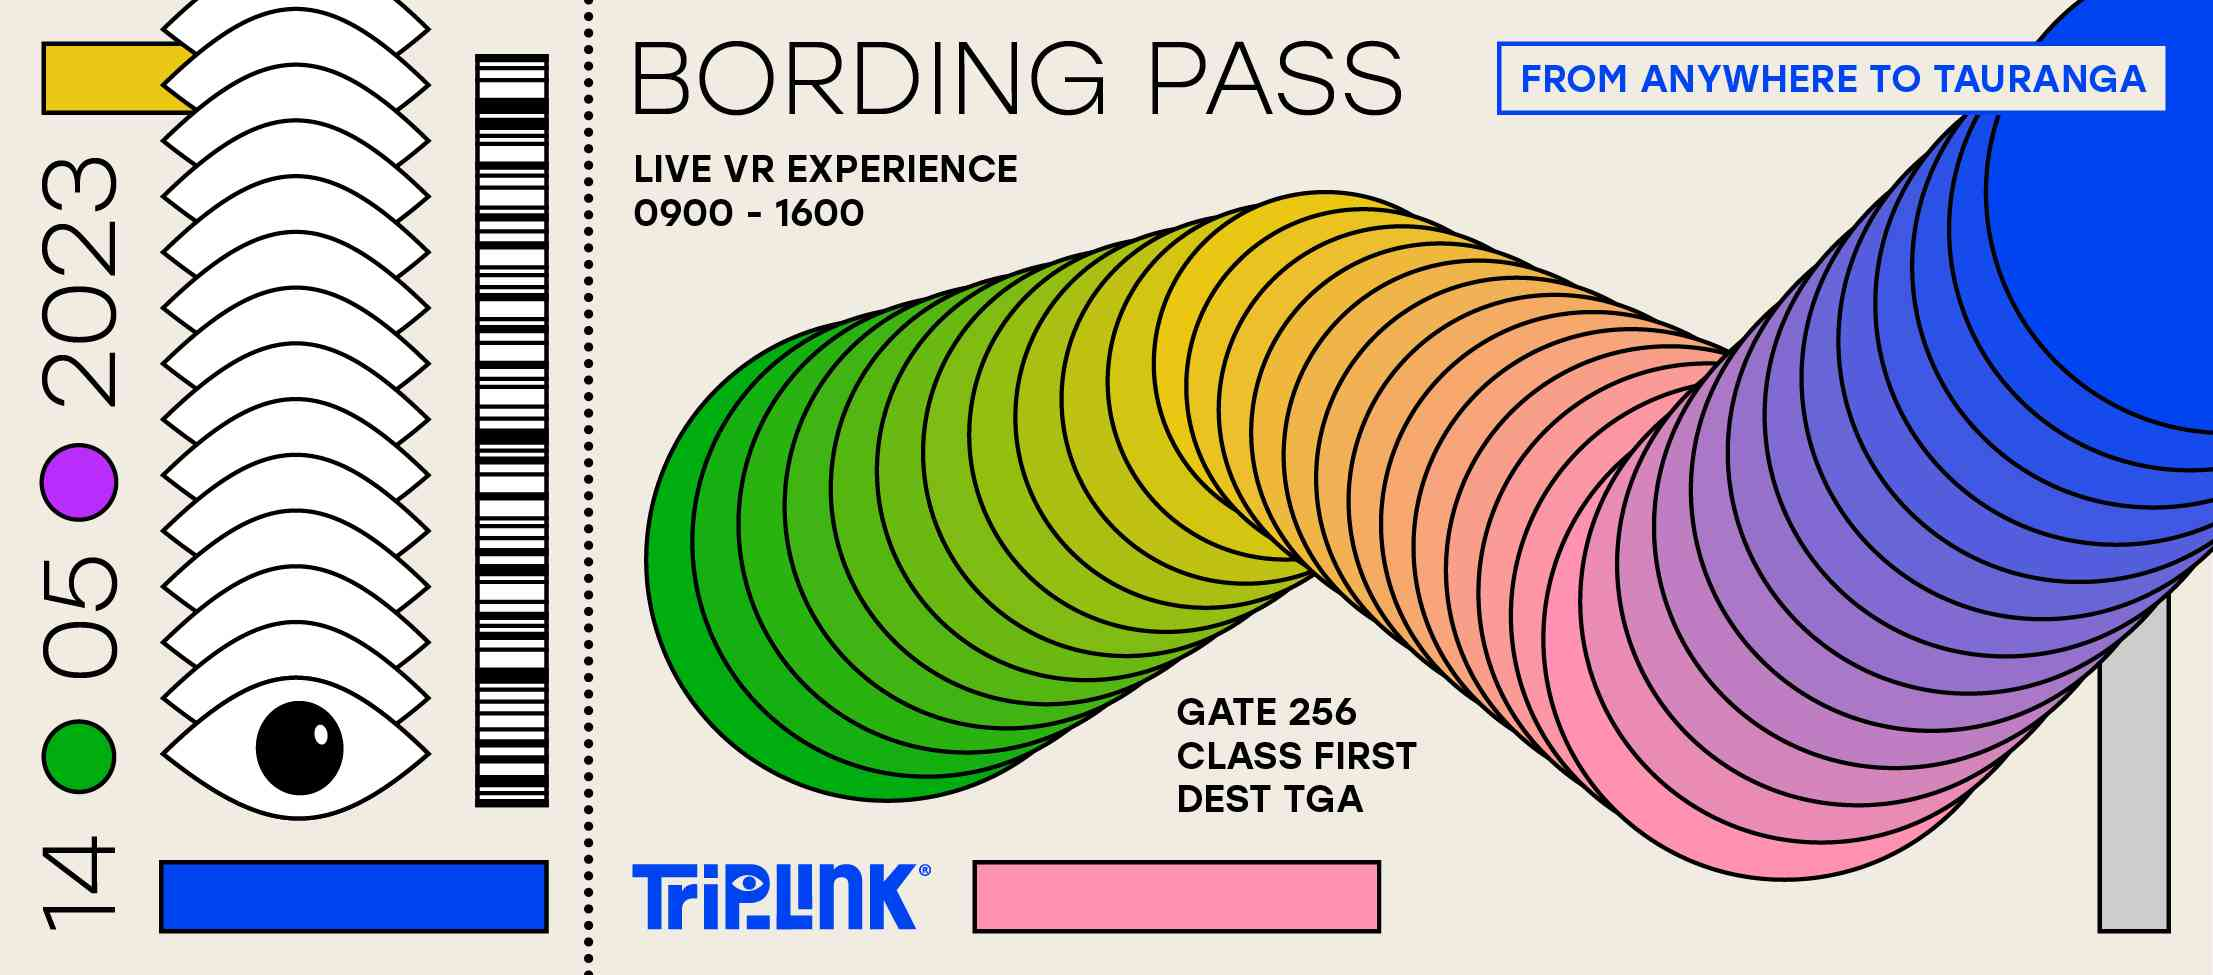
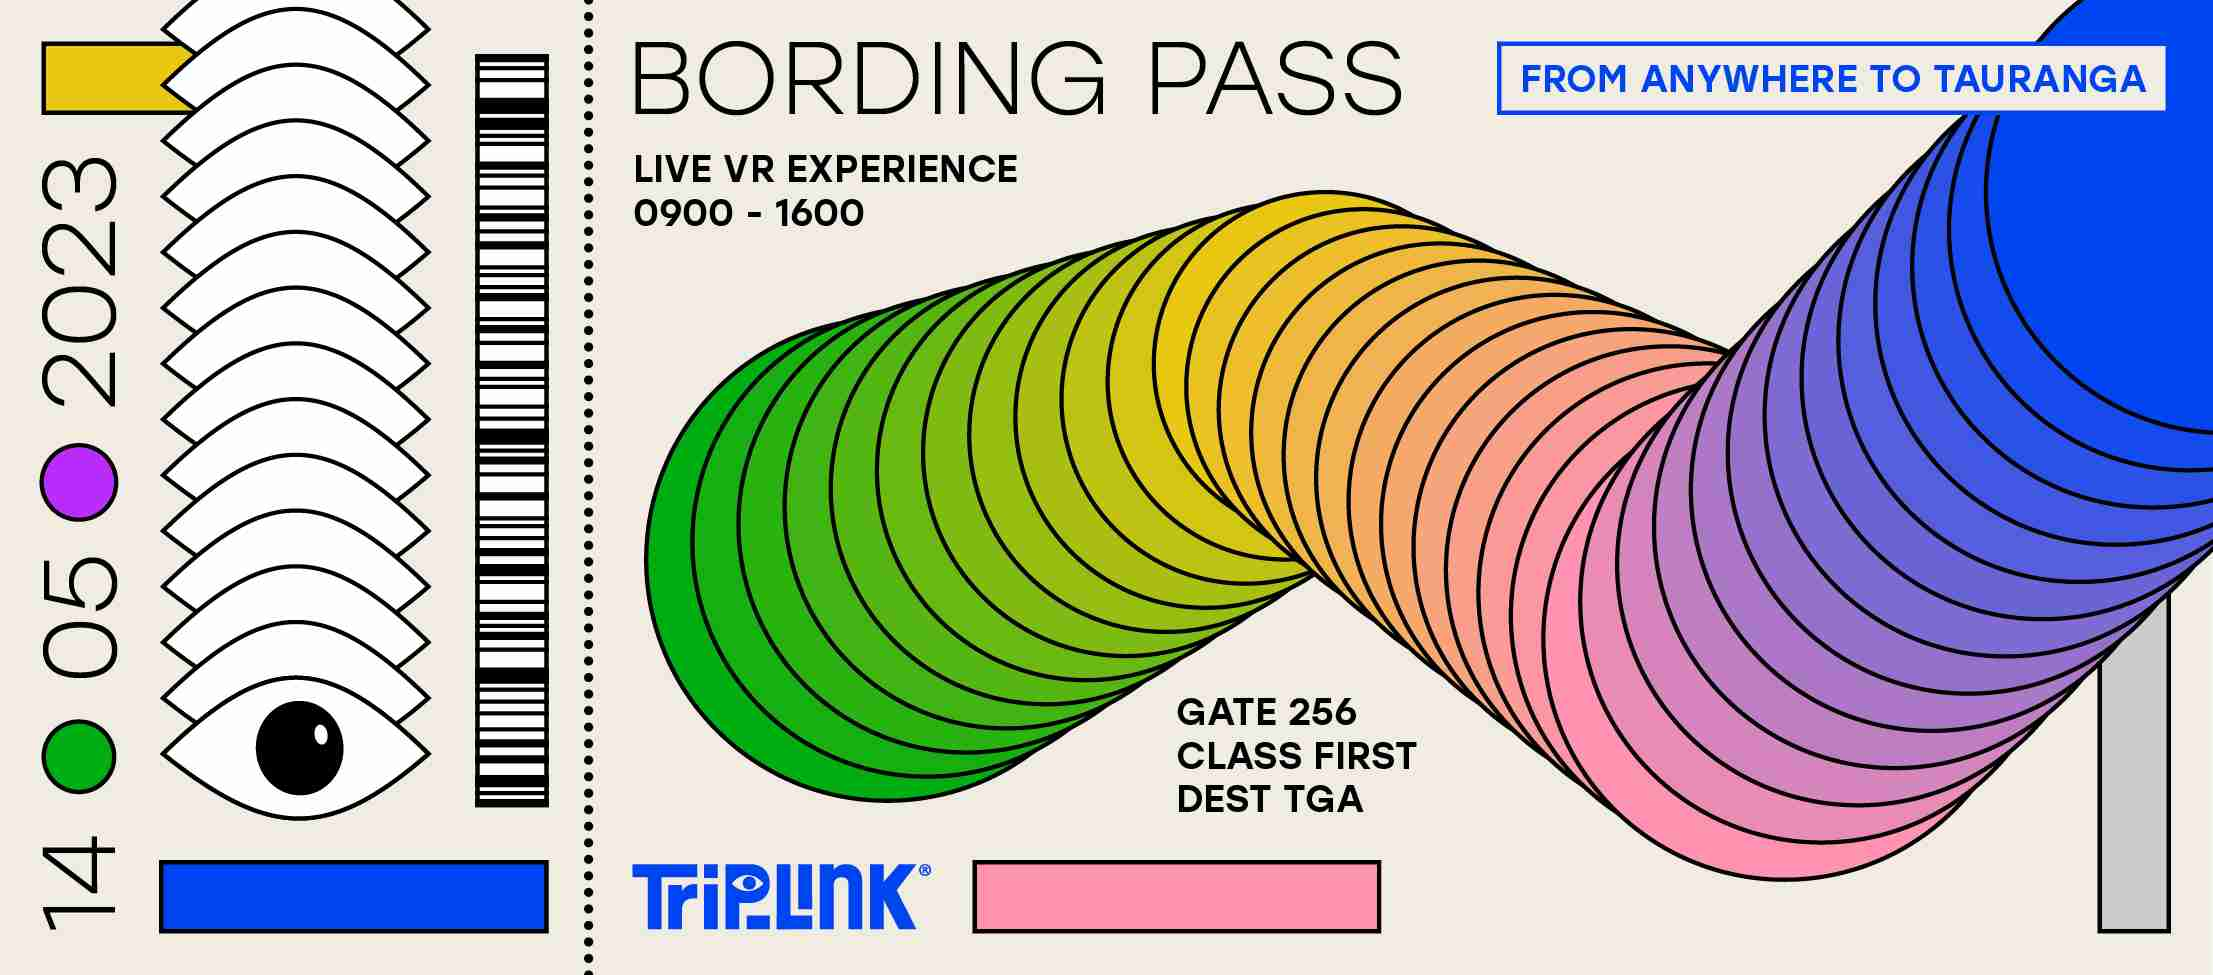
Compressed images

diff --git a/compress.py b/compress.py
@@ -15,7 +15,7 @@ for index, path in enumerate(paths):
 	os.makedirs(folder_path, exist_ok=True)
 
 	save_path = os.path.join(folder_path, name+".jpg")
-	img.save(save_path, quality=30, optimize=True)
+	img.save(save_path, quality=20, optimize=True)
 	img.close()
 
 	print(f"Compressed {name_full} ({index+1}/{len(paths)})")
